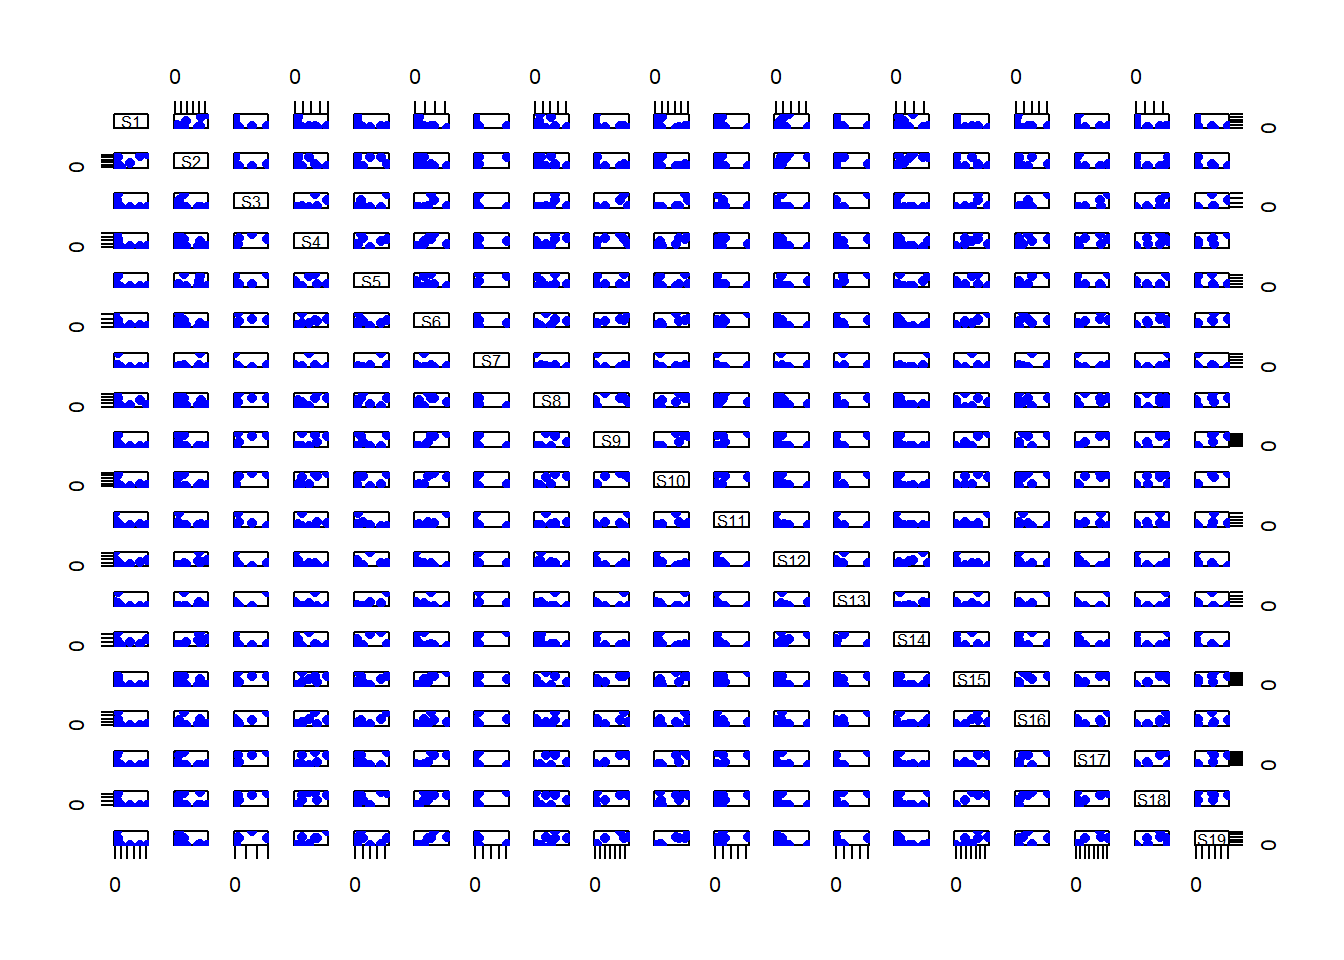
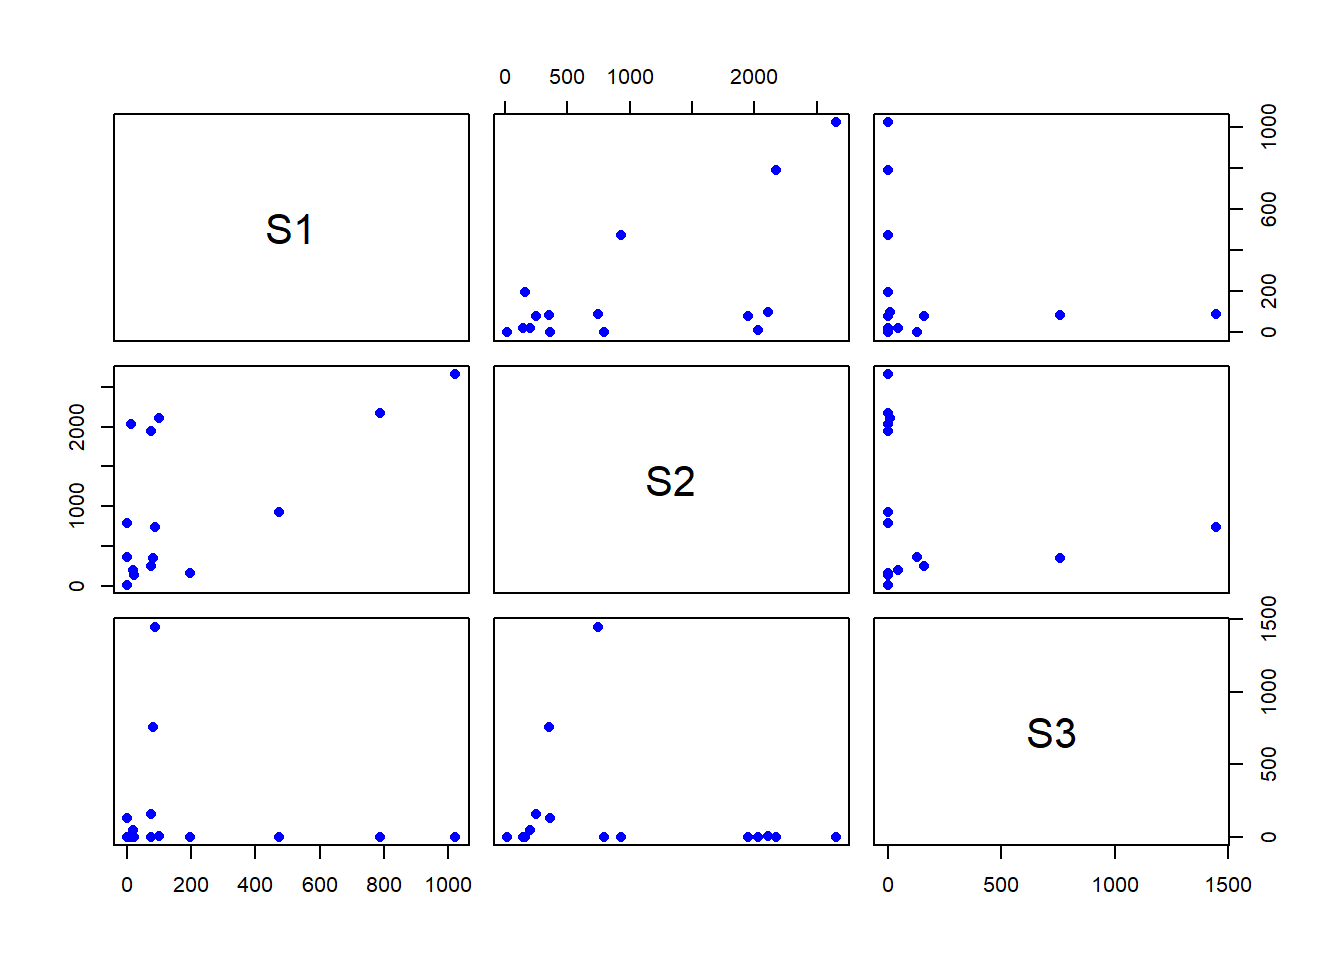
Add Open Graph and Twitter meta tags for improved sharing on 09-correlation.html and schedule.html; update course completion time in schedule.html and search.json for consistency.

Changed region(s): [[0.0312, 0.0625, 0.9688, 0.9375], [0.9062, 0.8438, 0.9375, 0.875], [0.0625, 0.9062, 0.0938, 0.9375]]

diff --git a/_site/09-correlation.html b/_site/09-correlation.html
@@ -127,6 +127,18 @@ window.Quarto = {
   typesetMath
 };
 </script><link rel="stylesheet" href="styles.css">
+<meta property="og:title" content="09 Correlation – R Stats Bootcamp">
+<meta property="og:description" content="">
+<meta property="og:image" content="https://rstatsbootcamp.com/img/murmur.png">
+<meta property="og:site_name" content="R Stats Bootcamp">
+<meta property="og:image:height" content="173">
+<meta property="og:image:width" content="260">
+<meta name="twitter:title" content="09 Correlation – R Stats Bootcamp">
+<meta name="twitter:description" content="">
+<meta name="twitter:image" content="https://rstatsbootcamp.com/img/murmur.png">
+<meta name="twitter:image-height" content="173">
+<meta name="twitter:image-width" content="260">
+<meta name="twitter:card" content="summary_large_image">
 </head>
 <body class="nav-sidebar docked nav-fixed quarto-light"><script id="quarto-html-before-body" type="application/javascript">
     const toggleBodyColorMode = (bsSheetEl) => {
@@ -901,7 +913,7 @@ sample estimates:
 <p>For the following exercises, use the data from the file 2.3-cfseal.xlsx. The data are from a sample of Cape fur seals, and include measures of body weight, heart mass, and lung mass. There will be some data handling as part of the exercises below, a practical and important part of every real data analysis.</p>
 <p><br></p>
 <section id="exploring-the-cape-fur-seal-dataset" class="level3"><h3 class="anchored" data-anchor-id="exploring-the-cape-fur-seal-dataset">7.1 Exploring the Cape Fur Seal Dataset</h3>
-<p>Read in the data from the file 2.3-cfseal.xlsx. Use the <code><a href="https://readxl.tidyverse.org/reference/read_excel.html">read_excel()</a></code> function from the <code>readxl</code> package. Print the first few rows of the data, and check the structure of the data. Show your code.</p>
+<p>Read in the data from the file 2.3-cfseal.xlsx. Use the <code><a href="https://readxl.tidyverse.org/reference/read_excel.html">read_excel()</a></code> function from the <code>readxl</code> package. Print the first few rows of the data, and check the correlation structure of the data for the first few columns. Show your code.</p>
 <p><br></p>
 <div class="callout callout-style-default callout-tip callout-titled">
 <div class="callout-header d-flex align-content-center" data-bs-toggle="collapse" data-bs-target=".callout-2-contents" aria-controls="callout-2" aria-expanded="false" aria-label="Toggle callout">
@@ -916,30 +928,34 @@ Waders Data Intercorrelation Analysis
 <div id="callout-2" class="callout-2-contents callout-collapse collapse">
 <div class="callout-body-container callout-body">
 <div class="cell">
-<div class="sourceCode" id="cb25"><pre class="downlit sourceCode r code-with-copy"><code class="sourceCode R"><span><span class="co"># Load the MASS package and waders dataset if not already loaded</span></span>
-<span><span class="kw">if</span> <span class="op">(</span><span class="op">!</span><span class="kw"><a href="https://rdrr.io/r/base/library.html">require</a></span><span class="op">(</span><span class="va"><a href="http://www.stats.ox.ac.uk/pub/MASS4/">MASS</a></span><span class="op">)</span><span class="op">)</span> <span class="op">{</span></span>
-<span>  <span class="co"># Create a simulated waders dataset if MASS is not available</span></span>
-<span>  <span class="fu"><a href="https://rdrr.io/r/base/Random.html">set.seed</a></span><span class="op">(</span><span class="fl">123</span><span class="op">)</span></span>
-<span>  <span class="va">waders</span> <span class="op">&lt;-</span> <span class="fu"><a href="https://rdrr.io/r/base/data.frame.html">data.frame</a></span><span class="op">(</span></span>
-<span>    S1 <span class="op">=</span> <span class="fu"><a href="https://rdrr.io/r/stats/Poisson.html">rpois</a></span><span class="op">(</span><span class="fl">20</span>, <span class="fl">10</span><span class="op">)</span>,</span>
-<span>    S2 <span class="op">=</span> <span class="fu"><a href="https://rdrr.io/r/stats/Poisson.html">rpois</a></span><span class="op">(</span><span class="fl">20</span>, <span class="fl">8</span><span class="op">)</span>,</span>
-<span>    S3 <span class="op">=</span> <span class="fu"><a href="https://rdrr.io/r/stats/Poisson.html">rpois</a></span><span class="op">(</span><span class="fl">20</span>, <span class="fl">5</span><span class="op">)</span></span>
-<span>  <span class="op">)</span></span>
-<span>  <span class="co"># Add correlation between species</span></span>
-<span>  <span class="va">waders</span><span class="op">$</span><span class="va">S2</span> <span class="op">&lt;-</span> <span class="va">waders</span><span class="op">$</span><span class="va">S2</span> <span class="op">+</span> <span class="fl">0.5</span> <span class="op">*</span> <span class="va">waders</span><span class="op">$</span><span class="va">S1</span></span>
-<span>  <span class="va">waders</span><span class="op">$</span><span class="va">S3</span> <span class="op">&lt;-</span> <span class="va">waders</span><span class="op">$</span><span class="va">S3</span> <span class="op">+</span> <span class="fl">0.3</span> <span class="op">*</span> <span class="va">waders</span><span class="op">$</span><span class="va">S1</span> <span class="op">+</span> <span class="fl">0.2</span> <span class="op">*</span> <span class="va">waders</span><span class="op">$</span><span class="va">S2</span></span>
-<span><span class="op">}</span> <span class="kw">else</span> <span class="op">{</span></span>
-<span>  <span class="co"># Load the real dataset if MASS is available</span></span>
-<span>  <span class="fu"><a href="https://rdrr.io/r/utils/data.html">data</a></span><span class="op">(</span><span class="va">waders</span><span class="op">)</span></span>
-<span><span class="op">}</span></span></code><button title="Copy to Clipboard" class="code-copy-button"><i class="bi"></i></button></pre></div>
-<div class="cell-output cell-output-stderr">
-<pre><code>Loading required package: MASS</code></pre>
-</div>
-<div class="sourceCode" id="cb27"><pre class="downlit sourceCode r code-with-copy"><code class="sourceCode R"><span><span class="co"># Read the help page for the dataset</span></span>
+<div class="sourceCode" id="cb25"><pre class="downlit sourceCode r code-with-copy"><code class="sourceCode R"><span><span class="co"># Load/install the MASS package and waders dataset if not already loaded</span></span>
+<span><span class="co"># install.packages("MASS")</span></span>
+<span><span class="kw"><a href="https://rdrr.io/r/base/library.html">library</a></span><span class="op">(</span><span class="va"><a href="http://www.stats.ox.ac.uk/pub/MASS4/">MASS</a></span><span class="op">)</span></span>
+<span><span class="fu"><a href="https://rdrr.io/r/utils/data.html">data</a></span><span class="op">(</span><span class="va">waders</span><span class="op">)</span></span>
+<span></span>
+<span><span class="co"># Read the help page for the dataset</span></span>
 <span><span class="co"># help(waders)</span></span>
 <span></span>
-<span><span class="co"># Use the pairs function to visualize intercorrelations</span></span>
-<span><span class="fu"><a href="https://rdrr.io/r/graphics/pairs.html">pairs</a></span><span class="op">(</span><span class="va">waders</span>, pch <span class="op">=</span> <span class="fl">16</span>, col <span class="op">=</span> <span class="st">"blue"</span><span class="op">)</span></span></code><button title="Copy to Clipboard" class="code-copy-button"><i class="bi"></i></button></pre></div>
+<span><span class="co"># Print the first few rows of the data</span></span>
+<span><span class="fu"><a href="https://rdrr.io/r/utils/head.html">head</a></span><span class="op">(</span><span class="va">waders</span><span class="op">)</span></span></code><button title="Copy to Clipboard" class="code-copy-button"><i class="bi"></i></button></pre></div>
+<div class="cell-output cell-output-stdout">
+<pre><code>   S1   S2 S3 S4   S5  S6   S7  S8 S9 S10 S11  S12  S13   S14  S15   S16 S17
+A  12 2027  0  0 2070  39  219 153  0  15  51 8336 2031 14941   19  3566   0
+B  99 2112  9 87 3481 470 2063  28 17 145  31 1515 1917 17321 3378 20164 177
+C 197  160  0  4  126  17    1  32  0   2   9  477    1   548   13   273   0
+D   0   17  0  3   50   6    4   7  0   1   2   16    0     0    3    69   1
+E  77 1948  0 19  310   1    1  64  0  22  81 2792  221  7422   10  4519  12
+F  19  203 48 45   20 433    0   0 11 167  12    1    0    26 1790  2916 473
+   S18 S19
+A    5   0
+B 1759  53
+C    0   0
+D    0   0
+E    0   0
+F  658  55</code></pre>
+</div>
+<div class="sourceCode" id="cb27"><pre class="downlit sourceCode r code-with-copy"><code class="sourceCode R"><span><span class="co"># Use the pairs function to visualize intercorrelations for the first few rows</span></span>
+<span><span class="fu"><a href="https://rdrr.io/r/graphics/pairs.html">pairs</a></span><span class="op">(</span>x<span class="op">=</span><span class="va">waders</span><span class="op">[</span>,<span class="fl">1</span><span class="op">:</span><span class="fl">3</span><span class="op">]</span>, pch <span class="op">=</span> <span class="fl">16</span>, col <span class="op">=</span> <span class="st">"blue"</span><span class="op">)</span></span></code><button title="Copy to Clipboard" class="code-copy-button"><i class="bi"></i></button></pre></div>
 <div class="cell-output-display">
 <div>
 <figure class="figure"><p><img src="09-correlation_files/figure-html/unnamed-chunk-8-1.png" class="img-fluid figure-img" width="672"></p>
@@ -947,48 +963,12 @@ Waders Data Intercorrelation Analysis
 </div>
 </div>
 <div class="sourceCode" id="cb28"><pre class="downlit sourceCode r code-with-copy"><code class="sourceCode R"><span><span class="co"># Calculate the correlation matrix for a numerical summary</span></span>
-<span><span class="fu"><a href="https://rdrr.io/r/base/Round.html">round</a></span><span class="op">(</span><span class="fu"><a href="https://rdrr.io/r/stats/cor.html">cor</a></span><span class="op">(</span><span class="va">waders</span><span class="op">)</span>, <span class="fl">2</span><span class="op">)</span></span></code><button title="Copy to Clipboard" class="code-copy-button"><i class="bi"></i></button></pre></div>
+<span><span class="fu"><a href="https://rdrr.io/r/base/Round.html">round</a></span><span class="op">(</span><span class="fu"><a href="https://rdrr.io/r/stats/cor.html">cor</a></span><span class="op">(</span><span class="va">waders</span><span class="op">[</span>,<span class="fl">1</span><span class="op">:</span><span class="fl">3</span><span class="op">]</span><span class="op">)</span>, <span class="fl">2</span><span class="op">)</span></span></code><button title="Copy to Clipboard" class="code-copy-button"><i class="bi"></i></button></pre></div>
 <div class="cell-output cell-output-stdout">
-<pre><code>       S1    S2    S3    S4    S5    S6    S7    S8    S9   S10   S11   S12
-S1   1.00  0.61 -0.17 -0.20 -0.18 -0.26 -0.12  0.04 -0.26 -0.18 -0.12  0.22
-S2   0.61  1.00 -0.21 -0.21  0.25 -0.30  0.36 -0.11 -0.32 -0.30 -0.17  0.70
-S3  -0.17 -0.21  1.00  0.70  0.64  0.48 -0.03  0.55  0.74  0.79  0.03 -0.10
-S4  -0.20 -0.21  0.70  1.00  0.48  0.63  0.20  0.73  0.67  0.90  0.20 -0.25
-S5  -0.18  0.25  0.64  0.48  1.00  0.28  0.64  0.30  0.38  0.42 -0.12  0.32
-S6  -0.26 -0.30  0.48  0.63  0.28  1.00  0.10  0.53  0.91  0.82  0.82 -0.31
-S7  -0.12  0.36 -0.03  0.20  0.64  0.10  1.00 -0.16 -0.06 -0.05 -0.11  0.09
-S8   0.04 -0.11  0.55  0.73  0.30  0.53 -0.16  1.00  0.59  0.83  0.38 -0.05
-S9  -0.26 -0.32  0.74  0.67  0.38  0.91 -0.06  0.59  1.00  0.90  0.67 -0.24
-S10 -0.18 -0.30  0.79  0.90  0.42  0.82 -0.05  0.83  0.90  1.00  0.48 -0.25
-S11 -0.12 -0.17  0.03  0.20 -0.12  0.82 -0.11  0.38  0.67  0.48  1.00 -0.18
-S12  0.22  0.70 -0.10 -0.25  0.32 -0.31  0.09 -0.05 -0.24 -0.25 -0.18  1.00
-S13 -0.16  0.09  0.80  0.34  0.88  0.22  0.26  0.28  0.44  0.42 -0.16  0.25
-S14  0.15  0.77 -0.21 -0.10  0.51 -0.24  0.70 -0.25 -0.31 -0.31 -0.25  0.72
-S15 -0.32 -0.25  0.60  0.69  0.47  0.96  0.28  0.44  0.91  0.81  0.66 -0.28
-S16 -0.18  0.04  0.88  0.66  0.88  0.52  0.41  0.40  0.67  0.68  0.05  0.00
-S17 -0.22 -0.29  0.85  0.71  0.46  0.85 -0.07  0.61  0.98  0.91  0.54 -0.21
-S18 -0.32 -0.12  0.63  0.76  0.69  0.80  0.56  0.39  0.75  0.74  0.37 -0.24
-S19 -0.26 -0.37  0.66  0.88  0.25  0.82 -0.09  0.73  0.88  0.95  0.54 -0.29
-      S13   S14   S15   S16   S17   S18   S19
-S1  -0.16  0.15 -0.32 -0.18 -0.22 -0.32 -0.26
-S2   0.09  0.77 -0.25  0.04 -0.29 -0.12 -0.37
-S3   0.80 -0.21  0.60  0.88  0.85  0.63  0.66
-S4   0.34 -0.10  0.69  0.66  0.71  0.76  0.88
-S5   0.88  0.51  0.47  0.88  0.46  0.69  0.25
-S6   0.22 -0.24  0.96  0.52  0.85  0.80  0.82
-S7   0.26  0.70  0.28  0.41 -0.07  0.56 -0.09
-S8   0.28 -0.25  0.44  0.40  0.61  0.39  0.73
-S9   0.44 -0.31  0.91  0.67  0.98  0.75  0.88
-S10  0.42 -0.31  0.81  0.68  0.91  0.74  0.95
-S11 -0.16 -0.25  0.66  0.05  0.54  0.37  0.54
-S12  0.25  0.72 -0.28  0.00 -0.21 -0.24 -0.29
-S13  1.00  0.20  0.39  0.88  0.56  0.53  0.21
-S14  0.20  1.00 -0.11  0.15 -0.30  0.10 -0.33
-S15  0.39 -0.11  1.00  0.70  0.87  0.92  0.80
-S16  0.88  0.15  0.70  1.00  0.76  0.83  0.52
-S17  0.56 -0.30  0.87  0.76  1.00  0.75  0.86
-S18  0.53  0.10  0.92  0.83  0.75  1.00  0.68
-S19  0.21 -0.33  0.80  0.52  0.86  0.68  1.00</code></pre>
+<pre><code>      S1    S2    S3
+S1  1.00  0.61 -0.17
+S2  0.61  1.00 -0.21
+S3 -0.17 -0.21  1.00</code></pre>
 </div>
 </div>
 <p>Based on the pairs plot and correlation matrix:</p>
@@ -2073,7 +2053,7 @@ sample estimates:
     }
       var localhostRegex = new RegExp(/^(?:http|https):\/\/localhost\:?[0-9]*\//);
       var mailtoRegex = new RegExp(/^mailto:/);
-        var filterRegex = new RegExp('/' + window.location.host + '/');
+        var filterRegex = new RegExp("https:\/\/rstatsbootcamp\.com");
       var isInternal = (href) => {
           return filterRegex.test(href) || localhostRegex.test(href) || mailtoRegex.test(href);
       }
@@ -2406,7 +2386,7 @@ sample estimates:
       &nbsp;
     </div>   
     <div class="nav-footer-center">
-<p>© 2025 R Stats Bootcamp :: 🦑 <a href="https://github.com/your-repo/RStatsBootcamp-2025">GitHub</a> :: <a href="https://github.com/rstats-bootcamp/RStatsBootcamp-2025/blob/main/LICENSE.md"><img src="https://img.shields.io/badge/license-MIT-green.png" class="img-fluid"></a></p>
+<p>© 2025 W. Edwin Harris :: 🦑 <a href="https://github.com/your-repo/RStatsBootcamp-2025">GitHub</a> :: <a href="https://github.com/rstats-bootcamp/RStatsBootcamp-2025/blob/main/LICENSE.md"><img src="https://img.shields.io/badge/license-MIT-green.png" class="img-fluid"></a></p>
 </div>
     <div class="nav-footer-right">
       &nbsp;

diff --git a/_site/schedule.html b/_site/schedule.html
@@ -75,6 +75,14 @@ ul.task-list li input[type="checkbox"] {
 
 
 <link rel="stylesheet" href="styles.css">
+<meta property="og:title" content="Course Schedule – R Stats Bootcamp">
+<meta property="og:description" content="">
+<meta property="og:image" content="https://rstatsbootcamp.com/img/robot-farmer.jpeg">
+<meta property="og:site_name" content="R Stats Bootcamp">
+<meta name="twitter:title" content="Course Schedule – R Stats Bootcamp">
+<meta name="twitter:description" content="">
+<meta name="twitter:image" content="https://rstatsbootcamp.com/img/robot-farmer.jpeg">
+<meta name="twitter:card" content="summary_large_image">
 </head>
 
 <body class="nav-sidebar docked nav-fixed quarto-light"><script id="quarto-html-before-body" type="application/javascript">
@@ -509,7 +517,7 @@ ul.task-list li input[type="checkbox"] {
 </div>
 <section id="r-stats-bootcamp-learning-path" class="level2">
 <h2 class="anchored" data-anchor-id="r-stats-bootcamp-learning-path">R Stats Bootcamp Learning Path</h2>
-<p>This self-paced bootcamp requires approximately 20-30 hours to complete. The schedule below provides an overview of all course modules and resources. Work through the materials sequentially for the best learning experience.</p>
+<p>This self-paced bootcamp will take most people about 40-60 hours to complete. The schedule below provides an overview of all course modules and resources. Work through the materials sequentially for the best learning experience.</p>
 </section>
 </div>
 <div class="callout callout-style-default callout-note callout-titled">
@@ -864,7 +872,7 @@ Community Support
     }
       var localhostRegex = new RegExp(/^(?:http|https):\/\/localhost\:?[0-9]*\//);
       var mailtoRegex = new RegExp(/^mailto:/);
-        var filterRegex = new RegExp('/' + window.location.host + '/');
+        var filterRegex = new RegExp("https:\/\/rstatsbootcamp\.com");
       var isInternal = (href) => {
           return filterRegex.test(href) || localhostRegex.test(href) || mailtoRegex.test(href);
       }
@@ -1198,7 +1206,7 @@ Community Support
       &nbsp;
     </div>   
     <div class="nav-footer-center">
-<p>© 2025 R Stats Bootcamp :: 🦑 <a href="https://github.com/your-repo/RStatsBootcamp-2025">GitHub</a> :: <a href="https://github.com/rstats-bootcamp/RStatsBootcamp-2025/blob/main/LICENSE.md"><img src="https://img.shields.io/badge/license-MIT-green.png" class="img-fluid"></a></p>
+<p>© 2025 W. Edwin Harris :: 🦑 <a href="https://github.com/your-repo/RStatsBootcamp-2025">GitHub</a> :: <a href="https://github.com/rstats-bootcamp/RStatsBootcamp-2025/blob/main/LICENSE.md"><img src="https://img.shields.io/badge/license-MIT-green.png" class="img-fluid"></a></p>
 </div>
     <div class="nav-footer-right">
       &nbsp;
